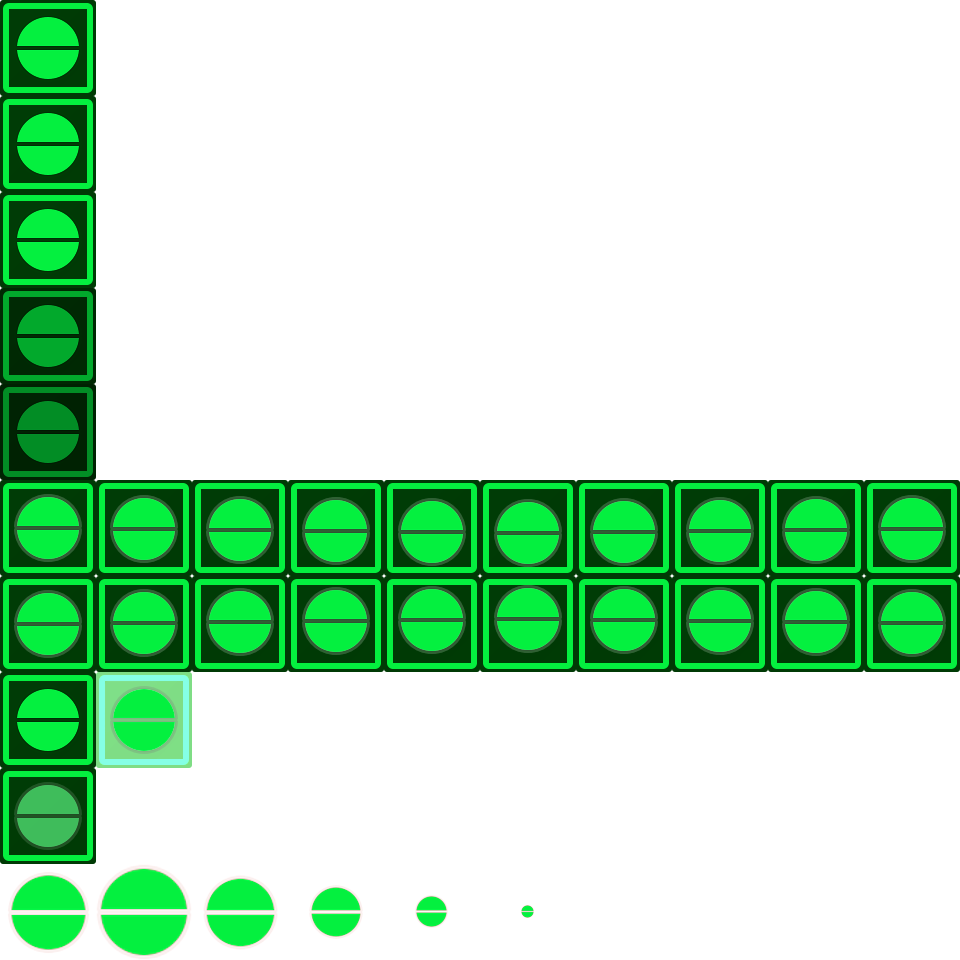
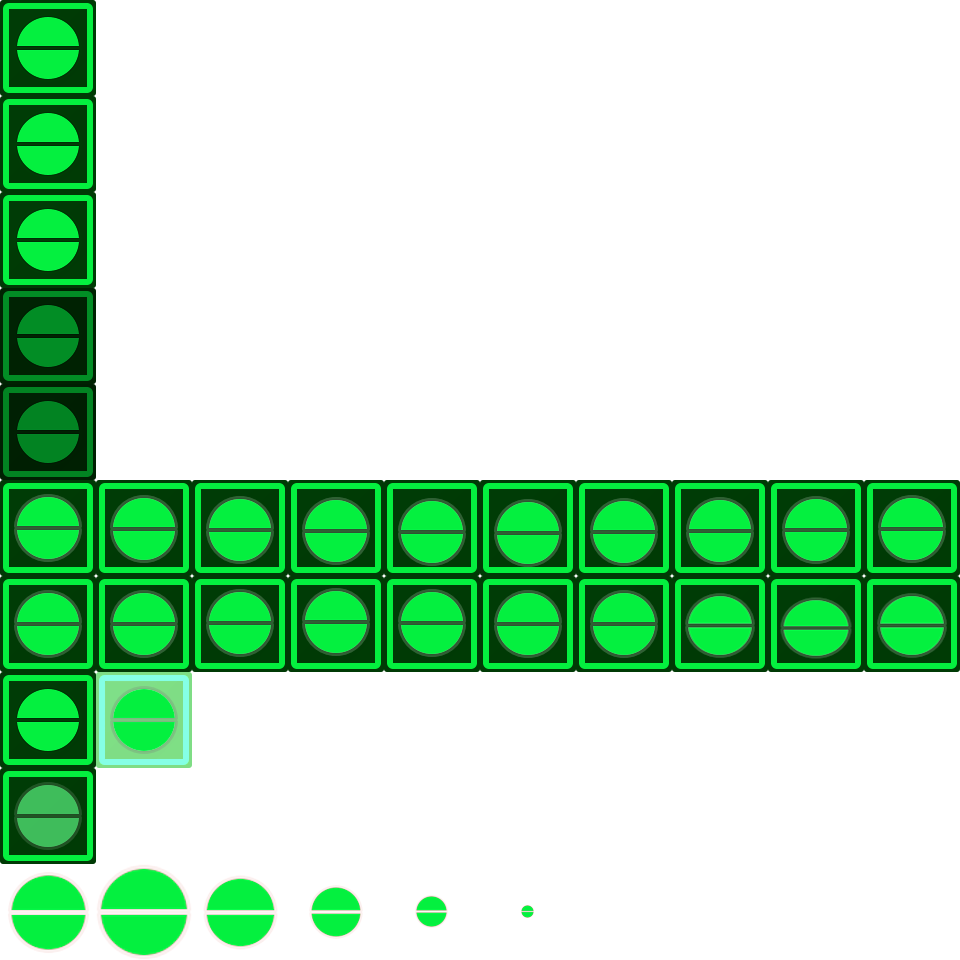
Increased Dim, added better bounce animation

diff --git a/Panels/Pacci Color Blind Friendly/CreatePanels.py b/Panels/Pacci Color Blind Friendly/CreatePanels.py
@@ -102,14 +102,14 @@ class Sheet:
   def buildDimmedAnimation(self):
     self.startAnimation()
     panelImage = self.standardPanelImage()
-    panelImage = adjustExtremes(panelImage, 0, 180)
+    panelImage = adjustExtremes(panelImage, 0, 150)
     self.addFrame(panelImage)
     self.endAnimation()
 
   def buildDeadAnimation(self):
     self.startAnimation()
     panelImage = self.standardPanelImage()
-    panelImage = adjustExtremes(panelImage, 0, 150)
+    panelImage = adjustExtremes(panelImage, 0, 140)
     # panelImage = adjust_levels(panelImage, 0, 255)
     self.addFrame(panelImage)
     self.endAnimation()
@@ -129,16 +129,29 @@ class Sheet:
 
   def buildDangerAnimation(self):
       self.startAnimation()
-      yOffset = 0
-      for x in range(0, self.panelConfig.dangerAnimationCount):
-      # print(yOffset)
+      # xOffset, yOffset, xScale, yScale
+      animations = [[0, 0, 1, 1],
+                    [0, -0.02, 1, 1],
+                    [0, -0.04, 1, 1],
+                    [0, -0.06, 1, 1],
+                    [0, -0.04, 1, 1],
+                    [0, -0.02, 1, 1],
+                    [0, 0, 1, 1],
+                    [0, 0.06, 1.05, 0.9],
+                    [0, 0.09, 1.1, 0.8],
+                    [0, 0.06, 1.05, 0.9],
+                    ]
+      for animation in animations:
+        if self.panelConfig.dangerBounceReduced:
+          animation = [animation[0]/2, animation[1]/2, ((animation[2]-1)/2)+1, ((animation[3]-1)/2)+1]
+        newWidth = int(animation[2] * self.panelSize[0])
+        newHeight = int(animation[3] * self.panelSize[1])
+        xOffset = int(animation[0] * self.panelSize[0]) + int((self.panelSize[0] - newWidth) / 2)
+        yOffset = int(animation[1] * self.panelSize[1]) + int((self.panelSize[1] - newHeight) / 2)
         panelImage = Image.alpha_composite(self.backgroundImage, self.borderImage)
-        panelImage.paste(self.shapeImage, (0, yOffset), self.shapeImage)
+        squishedShapeImage = self.shapeImage.resize([newWidth, newHeight])
+        panelImage.paste(squishedShapeImage, (xOffset, yOffset), squishedShapeImage)
         self.addFrame(panelImage)
-        if x >= (self.panelConfig.dangerAnimationCount-1) / 2:
-          yOffset += 1
-        else:
-          yOffset -= 1
       self.endAnimation()
   
   def buildFlashAnimation(self):
@@ -167,7 +180,6 @@ class Sheet:
 
   def buildPopAnimation(self):
       self.startAnimation()
-      yOffset = 0
       multiplier = 1
       multiplierIncrement = 0.2
       multiplierDecrement = 0.3
@@ -191,16 +203,17 @@ class PanelsConfig:
     self.folder = "RawImages/"
     self.outputFolder = "OutputPanels/"
     self.landingAnimationCount = 10
-    self.dangerAnimationCount = 10
     self.popAnimationCount = 6
-    self.maxAnimationFrames = self.dangerAnimationCount
+    self.maxAnimationFrames = self.landingAnimationCount
     self.animationCount = 10
+    self.dangerBounceReduced = True
+
   def createSheets(self):
     for i in range(1, 9):
       index = str(i)
       sheet = Sheet(self, index)
       sheet.buildSheet(index)
-      if i == 1:
+      if i == 2:
         sheet.sheetImage.show()
     configFileName = "config.json"
     shutil.copyfile(configFileName, self.outputFolder + configFileName)
